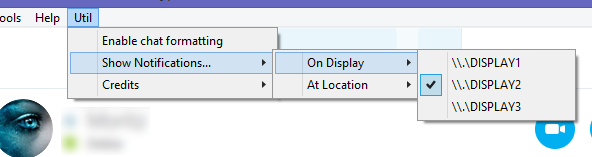
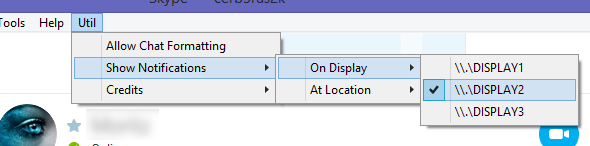
Minor update to menu names

diff --git a/src/sup_main.cpp b/src/sup_main.cpp
@@ -94,11 +94,11 @@ namespace SUP
 
 		UINT flags = MF_STRING | (enableChatFormat ? MF_CHECKED : MF_UNCHECKED);
 
-		AppendMenu(hUtilMenu, flags, ID_ENABLE_CHAT_FORMAT, L"&Enable chat formatting");
+		AppendMenu(hUtilMenu, flags, ID_ENABLE_CHAT_FORMAT, L"&Allow Chat Formatting");
 
 		HMENU notifMenu = CreateMenu();
 		AppendMenu(hUtilMenu, MF_STRING | MF_POPUP, (UINT_PTR)notifMenu,
-			L"Show &Notifications...");
+			L"Show &Notifications");
 
 		hDisplayMenu = CreateMenu();
 		AppendMenu(notifMenu, MF_STRING | MF_POPUP, (UINT_PTR)hDisplayMenu,
@@ -109,10 +109,10 @@ namespace SUP
 			L"At &Location");
 
 		flags = MF_STRING | MF_UNCHECKED;
-		AppendMenu(hPosMenu, flags, ID_SET_NOTIFICATION_POS + TopLeft, L"Top Left");
-		AppendMenu(hPosMenu, flags, ID_SET_NOTIFICATION_POS + TopRight, L"Top Right");
-		AppendMenu(hPosMenu, flags, ID_SET_NOTIFICATION_POS + BottomRight, L"Bottom Right");
-		AppendMenu(hPosMenu, flags, ID_SET_NOTIFICATION_POS + BottomLeft, L"Bottom Left");
+		AppendMenu(hPosMenu, flags, ID_SET_NOTIFICATION_POS + TopLeft, L"&Top Left");
+		AppendMenu(hPosMenu, flags, ID_SET_NOTIFICATION_POS + TopRight, L"T&op Right");
+		AppendMenu(hPosMenu, flags, ID_SET_NOTIFICATION_POS + BottomRight, L"Bottom &Right");
+		AppendMenu(hPosMenu, flags, ID_SET_NOTIFICATION_POS + BottomLeft, L"Bottom &Left");
 
 		HMENU creditsMenu = CreateMenu();
 		AppendMenu(hUtilMenu, MF_STRING | MF_POPUP, (UINT_PTR)creditsMenu,
